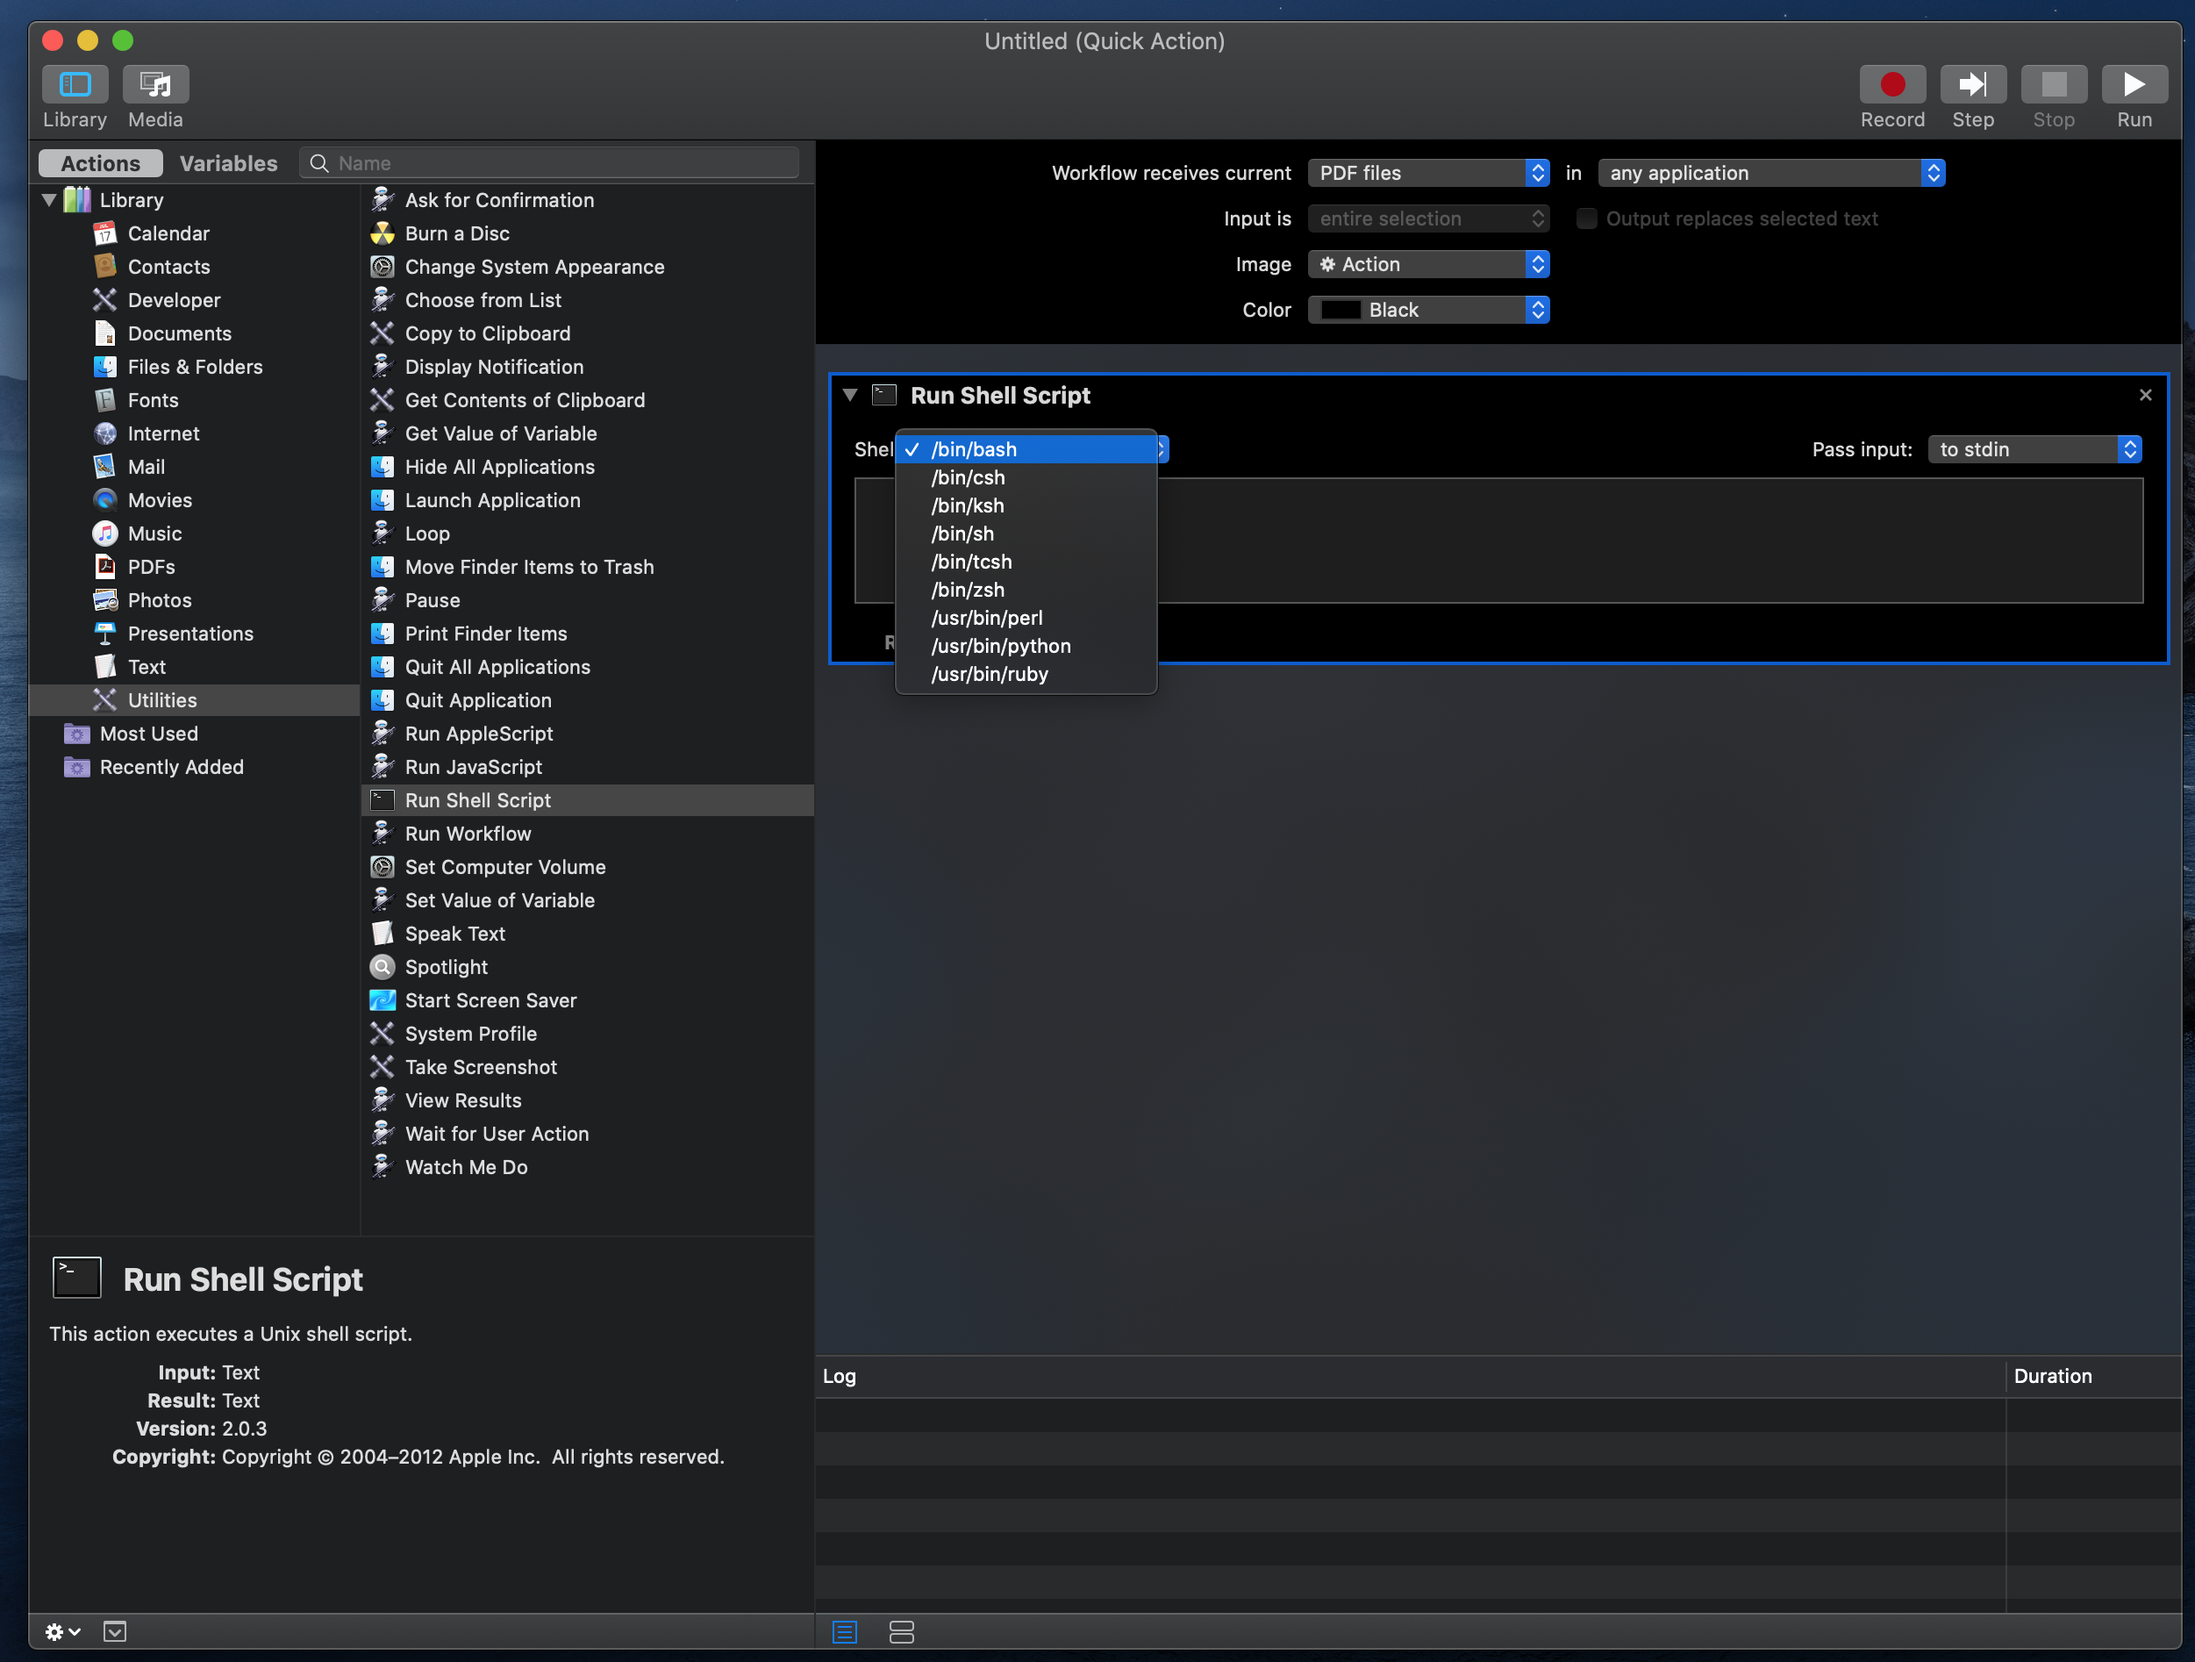
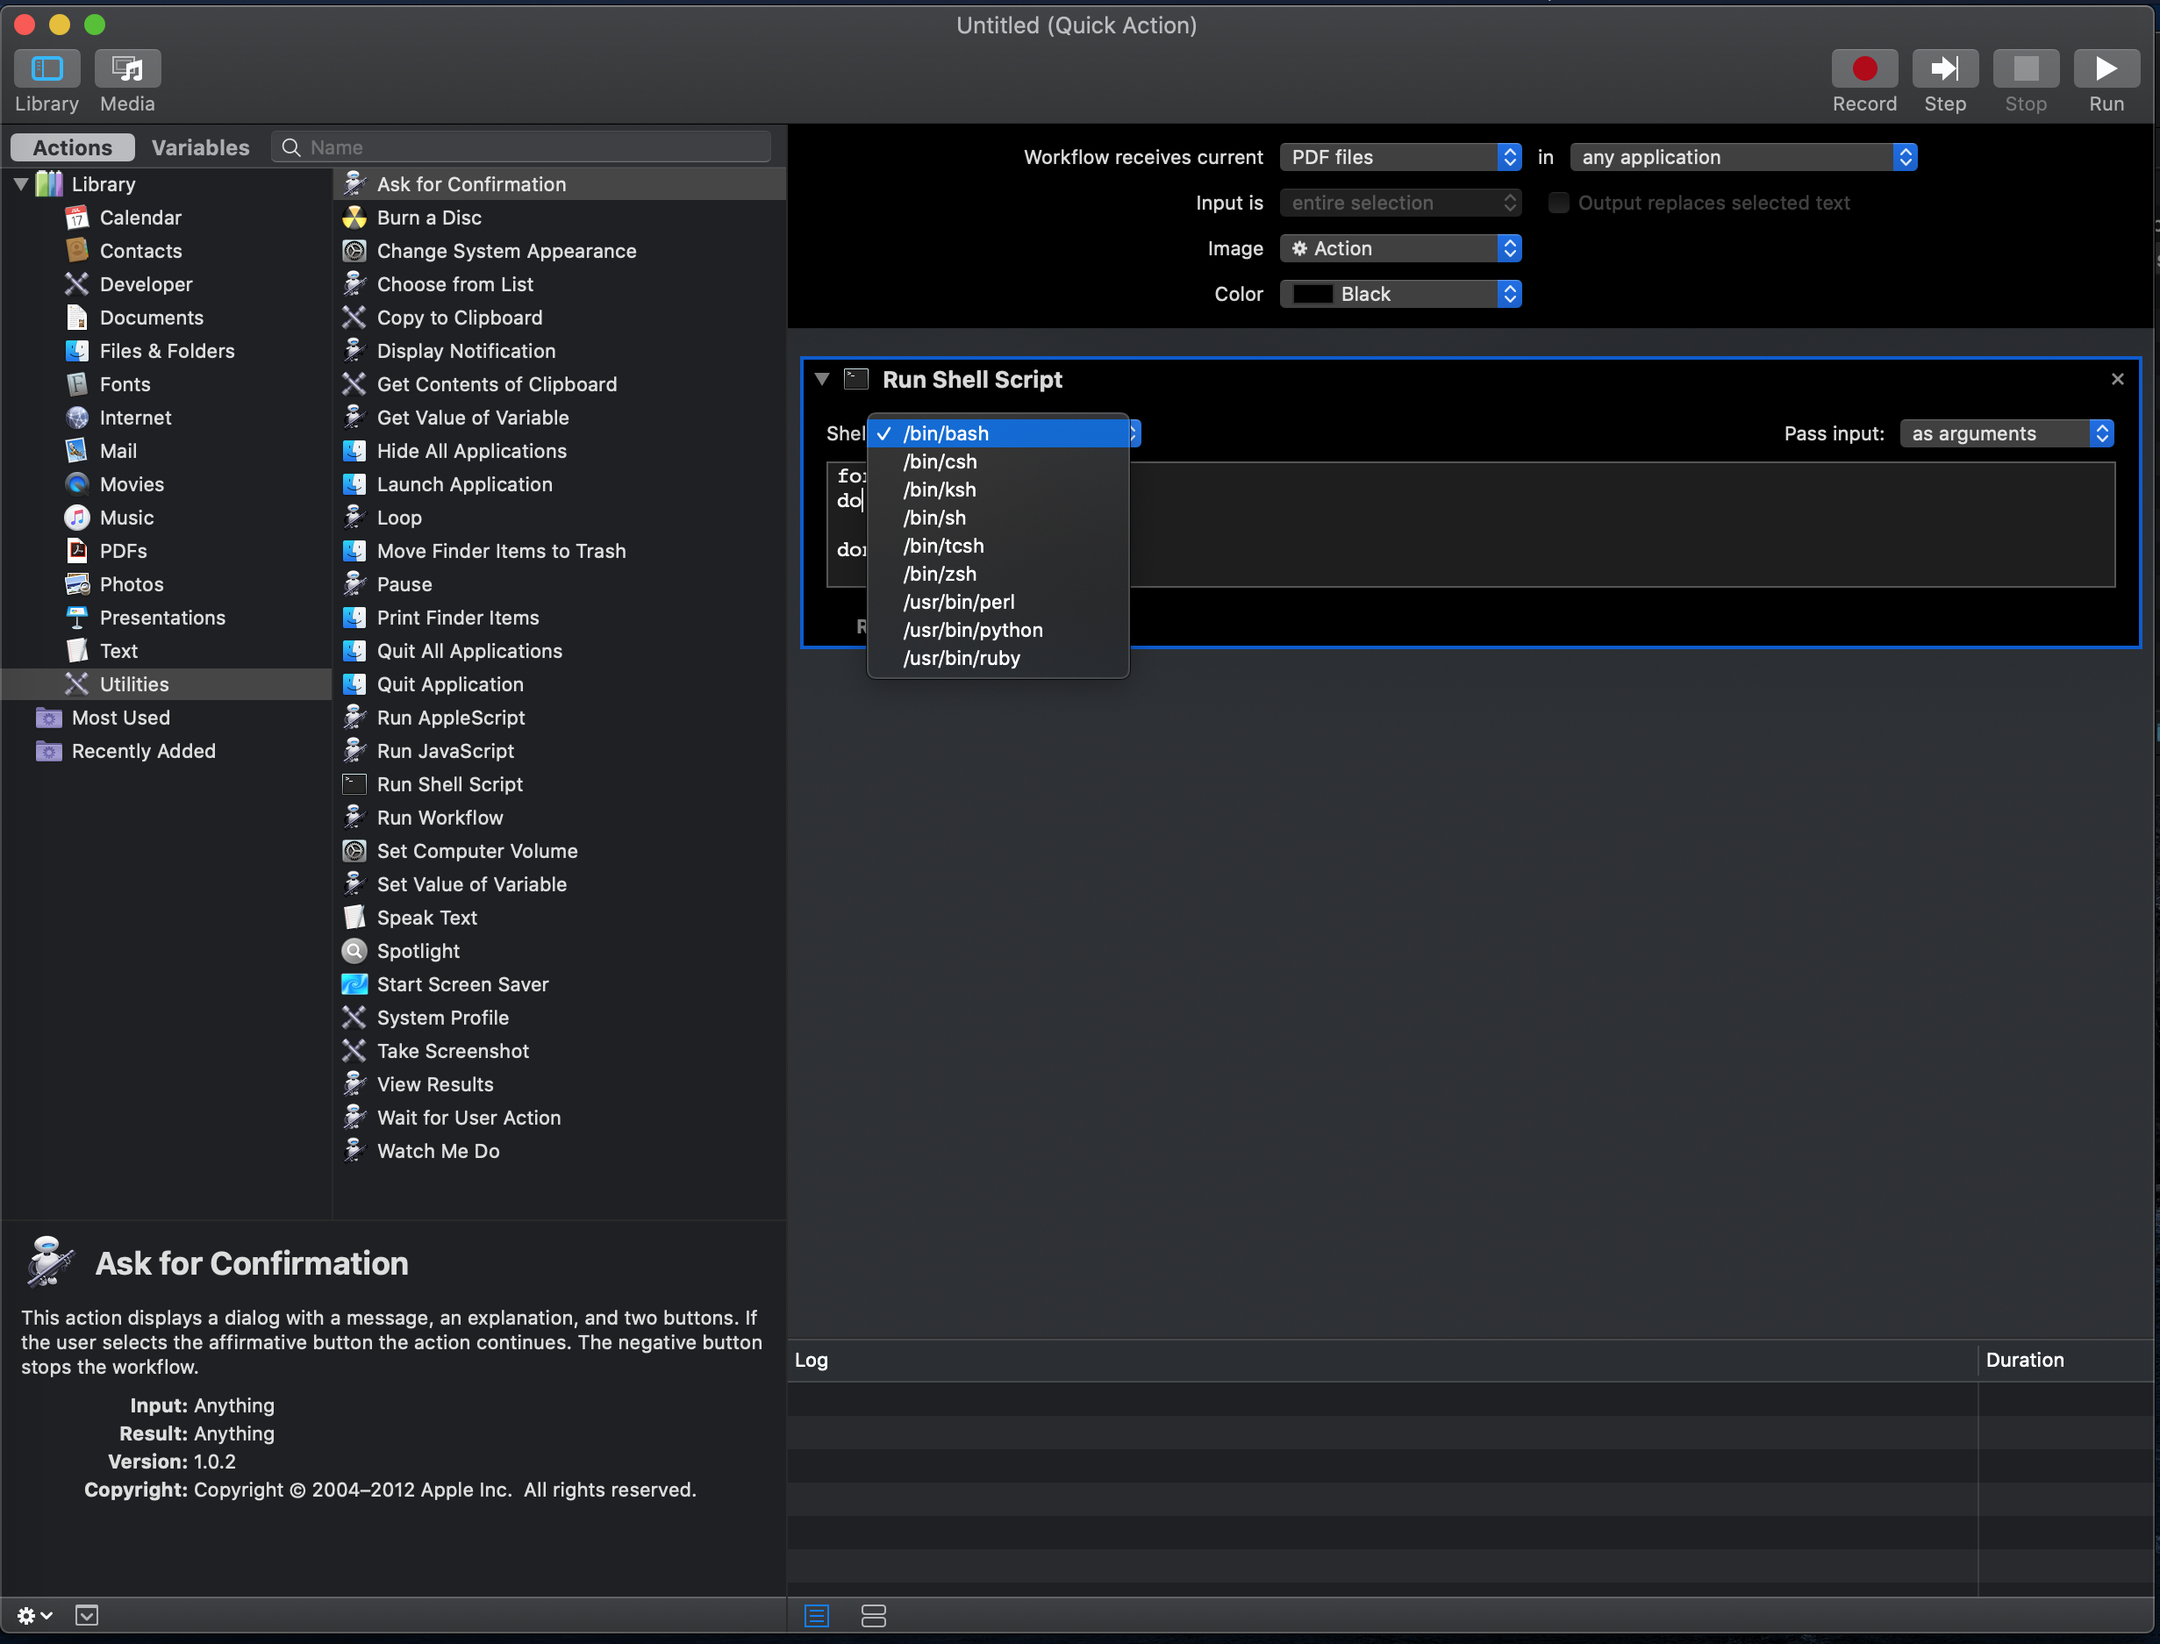
Updated README to handle multi page pdfs

Changed region(s): [[0.0, 0.0, 1.0, 1.0], [0.8952, 0.8047, 0.9569, 0.8356], [0.3704, 0.8047, 0.4013, 0.8356]]

diff --git a/README.md b/README.md
@@ -97,25 +97,41 @@ brew install ghostscript
 
 ![QuickAction-3](images/solution-quickaction-3.png)
 
-5) Inside of your 'Run Shell Script' action that you have added, choose '/bin/bash' from your shell options in the drop down
+5) Inside of your 'Run Shell Script' action that you have added, choose '/bin/bash' from your shell options in the drop down, and Pass input: 'as arguments'
 
 ![QuickAction-4](images/solution-quickaction-4.png)
 
 6) Add the following lines:
 
 ```bash
-export PATH=/usr/local/bin:$PATH
+# Change "YOUR_PRINTER_NAME" to the name of your printer
+PRINTER_NAME=YOUR_PRINTER_NAME
 
+# DO NOT MODIFY ANYTHING BELOW THIS LINE
+export PATH=/usr/local/bin:$PATH
 for f in "$@"
 do
-	echo "$f"
-	convert -density 203 "$f" -format png "$f".png
-	lpr -P YOUR_DEVICE_NAME "$f".png
-	rm "$f".png
+	WORKING_DIR=$(dirname "$f")
+	FILE=$(basename "$f")
+	RANDOM_STRING=$(cat /dev/random | LC_CTYPE=C tr -dc "[:alpha:]" | head -c 8)
+
+    # Creates temporary images from pdf with a random string to prevent conflicts
+	convert -density 203 "$f" -format png -strip "$f-$RANDOM_STRING.png"
+
+    # Gets filename(s) with the random string. Multi-page PDFs will output an image per page
+	for i in $(ls "$WORKING_DIR" | grep $RANDOM_STRING)
+	do
+        # Print the image
+		lpr -P $PRINTER_NAME "$WORKING_DIR/$i"
+
+        # Remove the image after it has been transferred to the printer
+		rm "$WORKING_DIR/$i"
+	done
+	
 done
 ```
 
-**IMPORTANT** - Please replace 'YOUR_DEVICE_NAME' with yours. To get your device name, please read the 'Prerequities' area in the beginning of this solution.
+**IMPORTANT** - At the top of the script, please replace 'YOUR_PRINTER_NAME' with your printer name. To get your device name, please read the 'Prerequities' area in the beginning of this solution.
 
 7) File > Save > Type in whatever you want to name this
 
